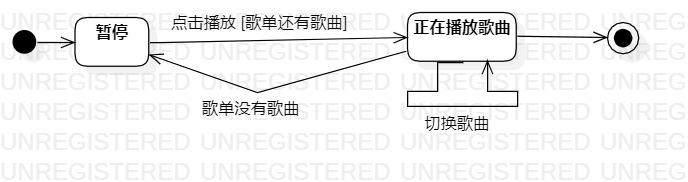
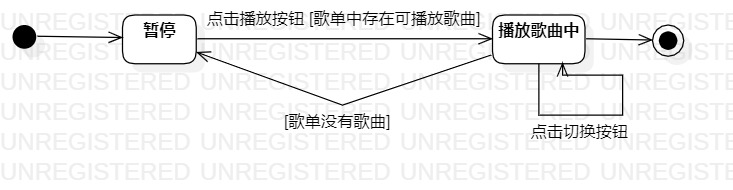
实验7 修改

diff --git a/students/1714080902517/lab7.md b/students/1714080902517/lab7.md
@@ -13,11 +13,11 @@
 
 ## 实验结果
 
-![添加歌曲状态](./img/state_1.jpg)
+![添加状态](./img/state_1.jpg)
 
-图一：添加歌曲状态
+图一：添加状态图
 
 
-![添加歌曲状态](./img/state_2.jpg)
+![添加状态](./img/state_2.jpg)
 
-图二：播放歌曲状态
+图二：播放状态图
